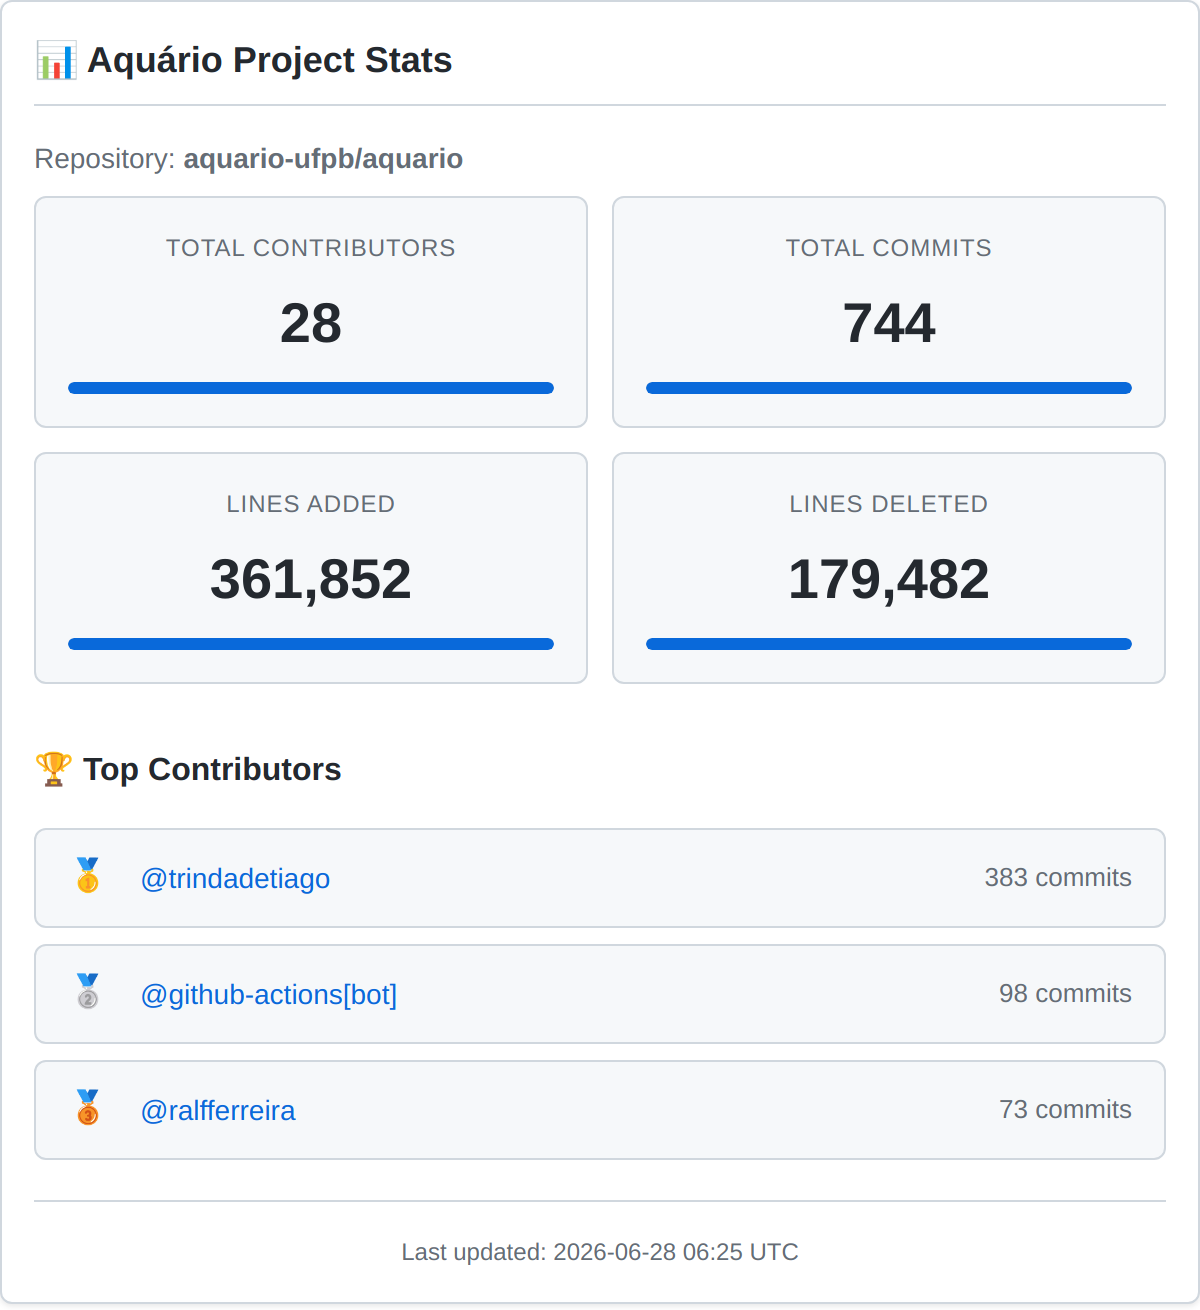
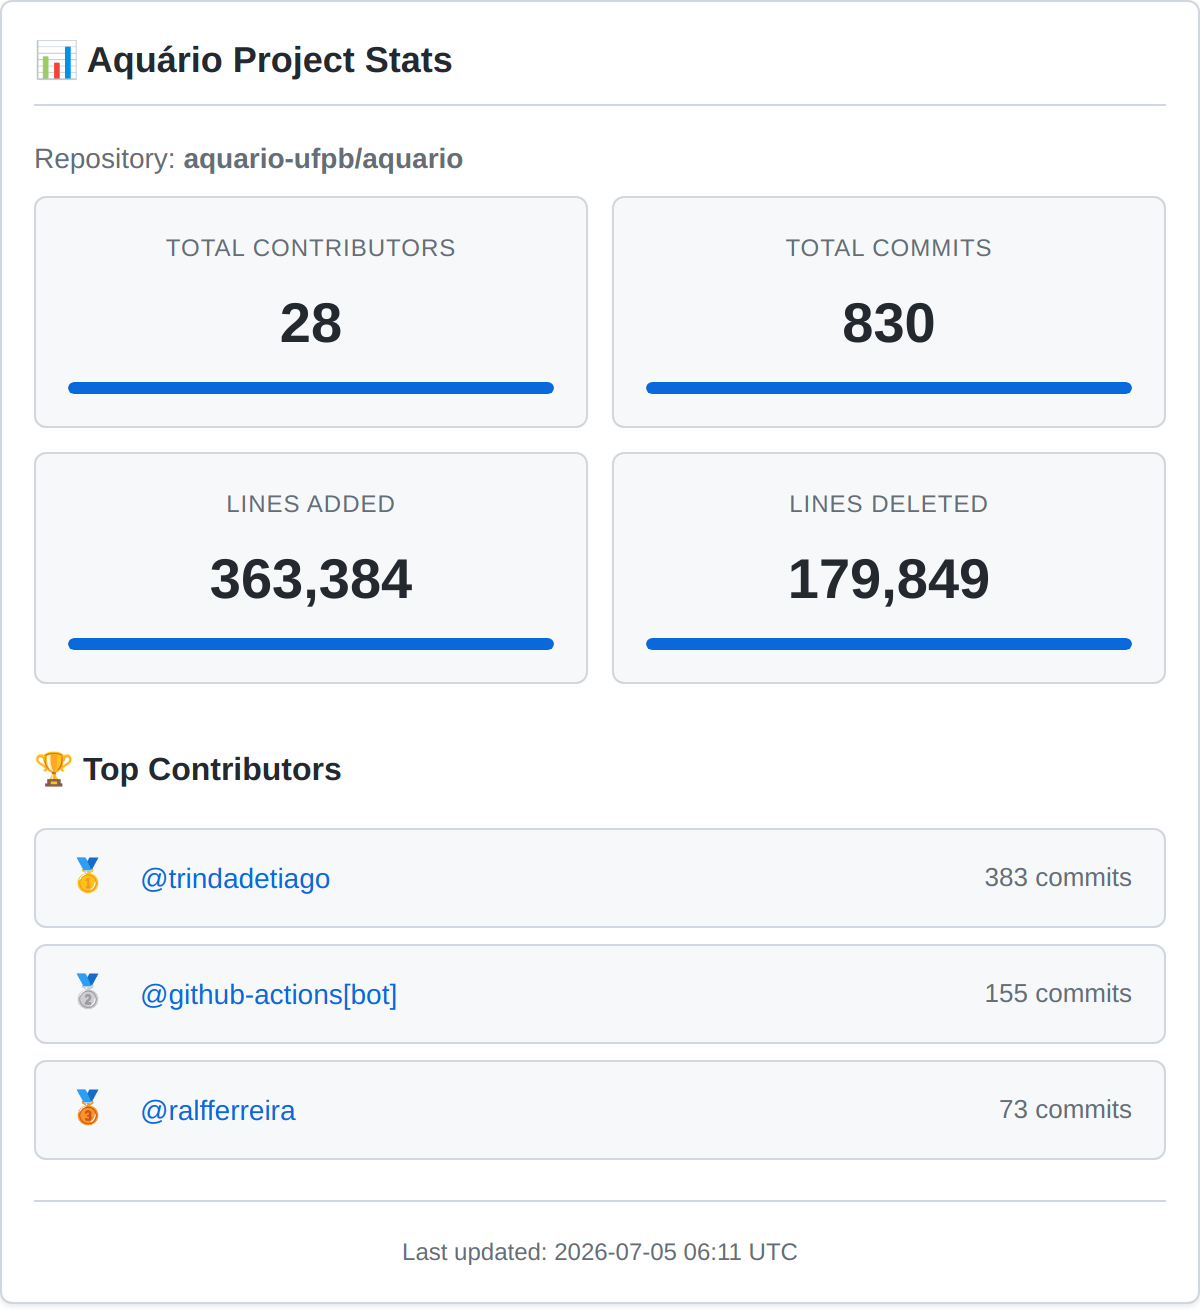
📊 Update contributor insights and visualizations [skip ci]

diff --git a/CONTRIBUTOR_INSIGHTS.md b/CONTRIBUTOR_INSIGHTS.md
@@ -1,7 +1,7 @@
 # 📊 Contributor Insights
 
 > **Repository:** aquario-ufpb/aquario  
-> **Last Updated:** Sunday, June 28, 2026 at 06:25 AM  
+> **Last Updated:** Sunday, July 5, 2026 at 06:11 AM  
 > **Generated by:** [GitHub Action](.github/workflows/contributor-insights.yml)
 
 ---
@@ -11,11 +11,11 @@
 | Metric | Value |
 |--------|-------|
 | **Total Contributors** | 28 |
-| **Total Commits** | 744 |
-| **Total Lines Added** | +361,852 |
-| **Total Lines Deleted** | -179,482 |
-| **Net Lines Changed** | +182,370 |
-| **Average Commits per Contributor** | 27 |
+| **Total Commits** | 830 |
+| **Total Lines Added** | +363,384 |
+| **Total Lines Deleted** | -179,849 |
+| **Net Lines Changed** | +183,535 |
+| **Average Commits per Contributor** | 30 |
 | **Most Active Contributor** | [@trindadetiago](https://github.com/trindadetiago) |
 | **Activity Trend** | 📈 increasing |
 
@@ -26,9 +26,9 @@
 | Rank | Contributor | Commits | Lines Added | Lines Deleted | Net Lines |
 |------|-------------|---------|-------------|---------------|-----------|
 | 🥇 1 | [@trindadetiago](https://github.com/trindadetiago) | 383 | +252,197 | -140,785 | +111,412 |
-| 🥈 2 | [@github-actions[bot]](https://github.com/github-actions[bot]) | 98 | +412 | -16,380 | -15,968 |
+| 🥈 2 | [@github-actions[bot]](https://github.com/github-actions[bot]) | 155 | +601 | -16,455 | -15,854 |
 | 🥉 3 | [@ralfferreira](https://github.com/ralfferreira) | 73 | +16,037 | -8,268 | +7,769 |
-| 🏅 4 | [@claude](https://github.com/claude) | 49 | +38,869 | -5,946 | +32,923 |
+| 🏅 4 | [@claude](https://github.com/claude) | 62 | +39,535 | -6,089 | +33,446 |
 | 🏅 5 | [@ianbitt](https://github.com/ianbitt) | 26 | +6,520 | -1,305 | +5,215 |
 
 ---
@@ -36,22 +36,21 @@
 ## 📈 Activity Analysis
 
 ### Weekly Activity Highlights
-- **Most Active Week:** 2025-11-02 (69 commits by 27 contributors)
+- **Most Active Week:** 2026-06-28 (86 commits by 27 contributors)
 - **Least Active Week:** 2024-07-21 (1 commits by 27 contributors)
 
 ### Recent Activity (Last 4 Weeks)
-- **Total Commits:** 71
-- **Average per Week:** 17.8
+- **Total Commits:** 150
+- **Average per Week:** 37.5
 - **Weeks with Activity:** 4/4
-- **Lines Added:** +7,441
-- **Lines Deleted:** -581
-- **Net Lines:** +6,860
+- **Lines Added:** +3,784
+- **Lines Deleted:** -898
+- **Net Lines:** +2,886
 
 ---
 
 ## 🆕 Recent Contributors
 
-- [@PucaVaz](https://github.com/PucaVaz) - 2 commits (first commit: 2026-06-07)
 - [@m9tzin](https://github.com/m9tzin) - 2 commits (first commit: 2026-06-14)
 
 ---
@@ -60,11 +59,11 @@
 
 | Range | Contributors | Percentage |
 |-------|-------------|------------|
-| 1-5 commits | 19 | 68% |
-| 6-20 commits | 2 | 7% |
-| 21-50 commits | 4 | 14% |
+| 1-5 commits | 18 | 64% |
+| 6-20 commits | 3 | 11% |
+| 21-50 commits | 3 | 11% |
 | 51-100 commits | 2 | 7% |
-| 100+ commits | 1 | 4% |
+| 100+ commits | 2 | 7% |
 
 ---
 
@@ -72,9 +71,9 @@
 
 | Period | Commits | Contributors | Activity Level |
 |--------|---------|-------------|----------------|
-| **Last 4 weeks** | 71 | 4 active | 17.8 avg/week |
-| **Last 8 weeks** | 78 | 8 active | 9.8 avg/week |
-| **All time** | 744 | 28 | 13 avg/week |
+| **Last 4 weeks** | 150 | 4 active | 37.5 avg/week |
+| **Last 8 weeks** | 163 | 8 active | 20.4 avg/week |
+| **All time** | 830 | 28 | 14 avg/week |
 
 ---
 
@@ -82,7 +81,7 @@
 
 This report is automatically generated every **Sunday at 2 AM UTC** by a GitHub Action. You can also trigger it manually from the Actions tab.
 
-**Last run:** 2026-06-28T06:25:53.779Z
+**Last run:** 2026-07-05T06:11:21.643Z
 
 ---
 